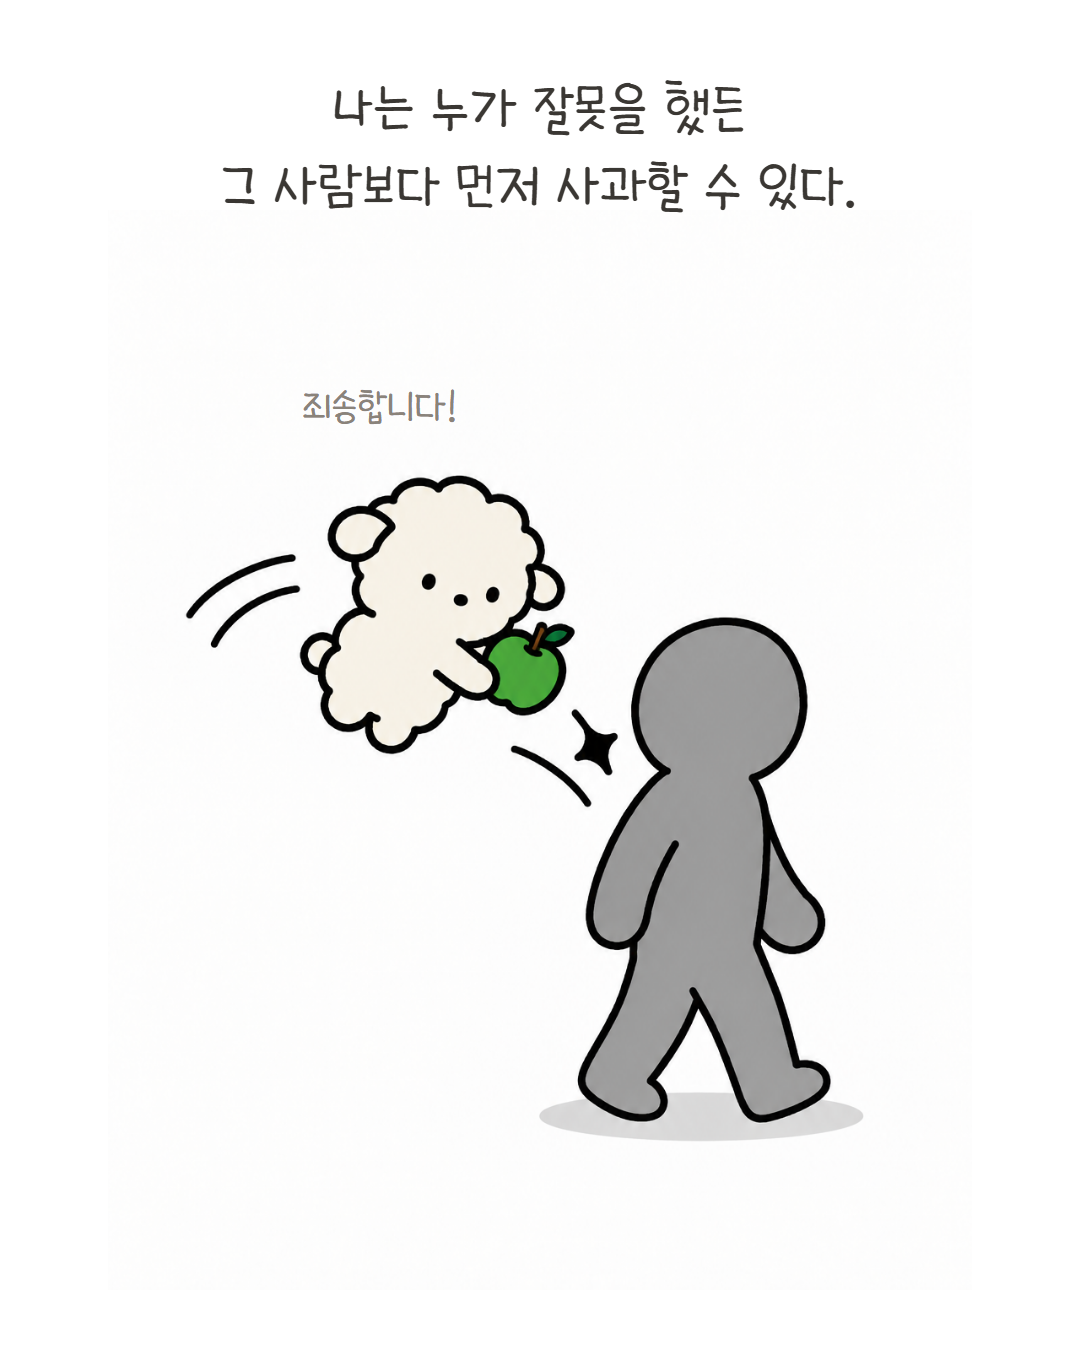
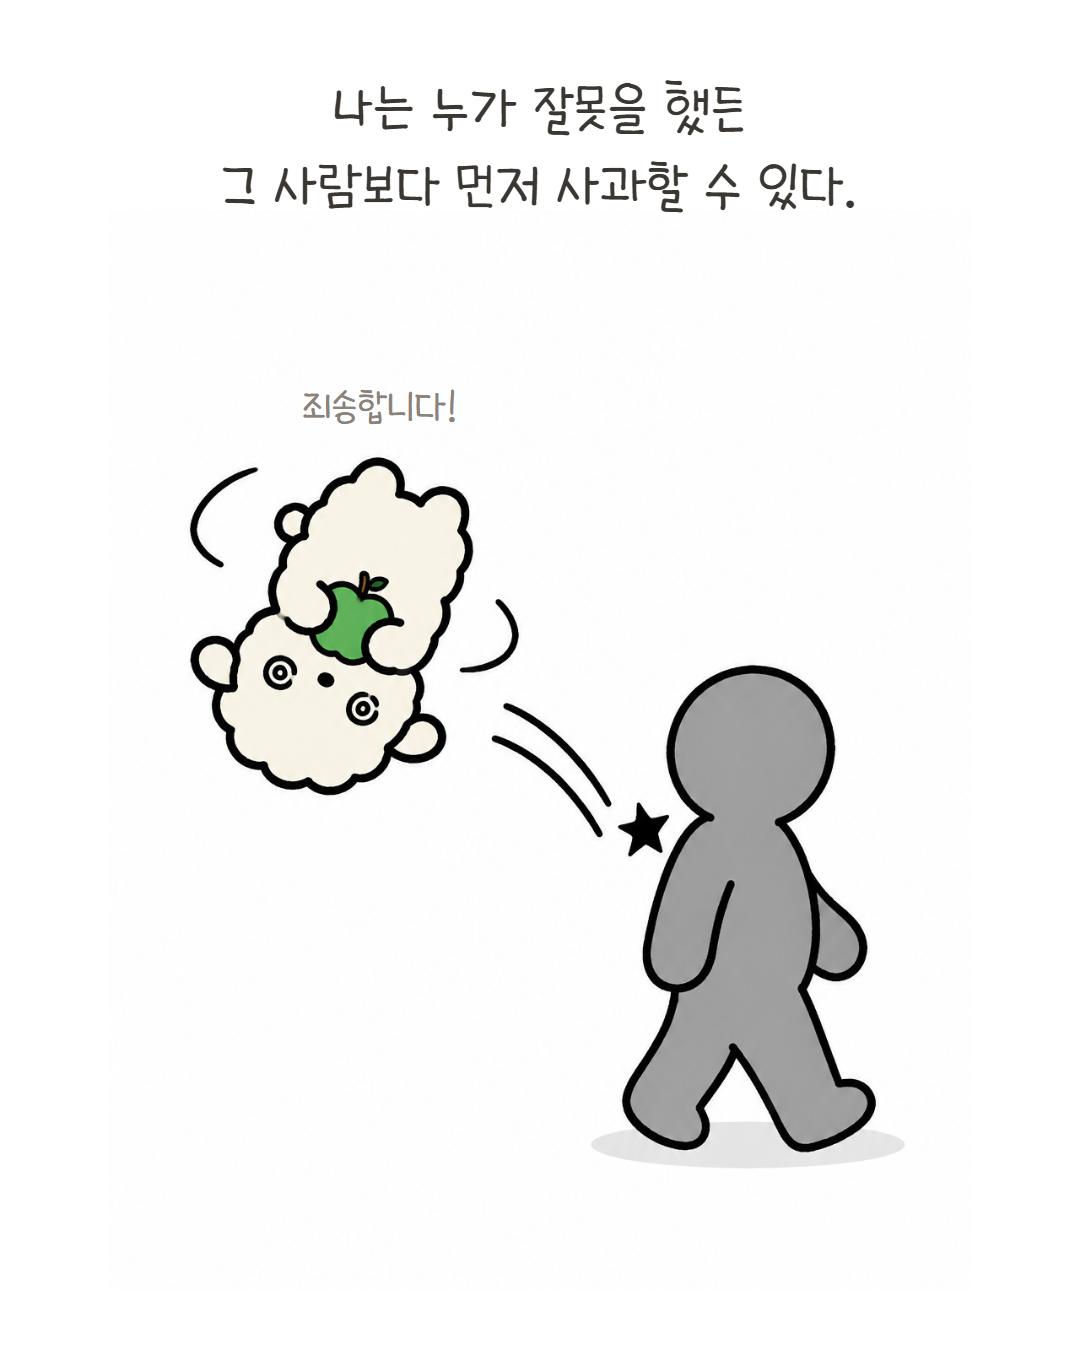
EP.05 컷1 재생성: 뒤집혀 날아가며 어지러운 눈으로 사과

Changed region(s): [[0.1528, 0.3422, 0.825, 0.8711], [0.1833, 0.3422, 0.2444, 0.3733], [0.1528, 0.3733, 0.1833, 0.4044]]

diff --git a/episodes/ep05/build_prompts.py b/episodes/ep05/build_prompts.py
@@ -51,10 +51,10 @@ cuts['cover'] = head(DUBU, APPLE) + (
     "Character and rock in the lower 60% of the image; the upper 40% must be completely empty white for a title.") + END
 
 cuts['cut1'] = head(DUBU, APPLE) + (
-    "Scene: " + SILHOUETTE + " is walking from right to left in side view, looking straight ahead, and has just shoulder-bumped Dubu so hard that she is LAUNCHED INTO THE AIR. "
-    "The silhouette keeps walking without reacting, and stands on the ground at the right. Dubu is on the LEFT, high up in mid-air, feet well off the ground, her whole body flying sideways away from the silhouette "
-    "with a curved arc of motion lines behind her and one small black four-point impact star near the silhouette's shoulder — yet even while flying she is the one apologizing: "
-    "her head is bowed toward the silhouette and she holds THE APPLE out with both hands toward it, eyes as two small dots. "
+    "Scene: " + SILHOUETTE + " is walking from right to left in side view, looking straight ahead, and has just shoulder-bumped Dubu so hard that she is LAUNCHED INTO THE AIR and FLIPPED UPSIDE DOWN. "
+    "The silhouette keeps walking without reacting, standing on the ground at the right. Dubu is on the LEFT, high up in mid-air, feet well off the ground, her body completely upside down (head at the bottom, feet pointing up), "
+    "tumbling away from the silhouette with a curved arc of motion lines and a small spinning-motion swirl line around her body, one small black four-point impact star near the silhouette's shoulder. "
+    "Her eyes are DIZZY: instead of dots, draw each eye as a small black spiral (swirl). Yet even upside down and dizzy she is the one apologizing: she still holds THE APPLE out with both stubby arms toward the silhouette. "
     "Dubu is airborne, so draw NO contact shadow under her; only the silhouette gets a shadow ellipse. Bright, calm colors. " + LAYOUT) + END
 
 cuts['cut2'] = head(DUBU, TANGJA, APPLE) + (

diff --git a/episodes/ep05/conti.md b/episodes/ep05/conti.md
@@ -5,7 +5,7 @@
 | 컷 | 장면 | 내레이션 | 속마음·대사(합성) |
 |---|---|---|---|
 | 표지 | 작은 바위 절벽 끝에 선 두부가 한 손은 허리, 다른 팔을 비스듬히 높이 들어 초록 사과를 트로피처럼 치켜듦. 뒤로 빛줄기 방사, 주위 반짝이 | 제목 (3줄: 잘못한 사람보다 / 먼저 사과할 수 있는 / 초능력) | 감정: 반짝이 · 밈: 심바 들어올리기 |
-| 1 | 회색 실루엣 행인이 걸어가다 두부를 치고 지나가고, 두부는 공중으로 날아가는 중(궤적선, 충돌 별). 날아가면서도 실루엣 쪽으로 고개 숙이고 사과를 두 손으로 내밂. 두부는 공중이라 접지 그림자 없음 | 나는 누가 잘못을 했든 / 그 사람보다 먼저 사과할 수 있다. | 두부: 죄송합니다! · 감정: 어깨 충돌 별 |
+| 1 | 회색 실루엣 행인이 걸어가다 두부를 치고 지나가고, 두부는 튕겨서 거꾸로 뒤집힌 채 공중으로 날아가는 중(궤적선, 충돌 별, 눈은 어지러운 소용돌이). 뒤집힌 채로도 사과를 두 손으로 내밂. 두부는 공중이라 접지 그림자 없음 | 나는 누가 잘못을 했든 / 그 사람보다 먼저 사과할 수 있다. | 두부: 죄송합니다! · 감정: 어깨 충돌 별 |
 | 2 | 길거리. 뛰어오던 탱자가 두부와 부딪혀 두부의 아이스크림이 바닥에 떨어짐. 탱자는 두 손을 입에 대고 굳었는데 두부는 이미 사과를 내밀고 웃는 호 눈 | 친구가 실수를 했을 때 / 미안해할 틈도 주지 않을 수 있고 | 두부: 내가 갑자기 멈춰 섰지, 미안! · 탱자: ...내가 미안한 건데 · 감정: 탱자 머리 위 하트 |
 | 3 | **과거 연출.** 편의점. 어린이 콩(두부의 70% 크기, 빨간 나비넥타이)이 넘어뜨린 진열대에서 과자 봉지가 산처럼 쏟아져 있고, 콩은 뒷짐 지고 딴 데를 봄. 여고생 교복을 입은 두부가 카운터의 점원(물범)에게 사과를 내밀며 90도 인사 | 어릴 때부터 동생이 사고를 치면 / 동생 몫까지 대신 사과해 왔다. | 두부: 저희가 다 치울게요! · 콩: 누나 최고 · 라벨: 상단 -10년 전- · 감정: 콩 머리 위 음표 |
 | 4 | **공유 컷.** 카페 앞 벤치. 두부 옆에 얼음이 다 녹은 음료 컵. 밤톨이 뛰지도 않고 천천히 걸어와 서 있음. 두부는 일어나 웃는 호 눈으로 사과를 내밀지만, 등 뒤로 감춘 다른 손은 꽉 쥔 주먹에 떨림선. 저채도 | 남친이 약속에 40분 늦은 날. / 이 능력은 오늘도 정확히 발동한다. | 두부: 내가 괜히 일찍 나와서 불편하게 했네 ㅎㅎ · 밤톨: 차 막혔어. · 감정: 등 뒤 주먹 떨림선 · 속마음 장치: 등 뒤 주먹 |
